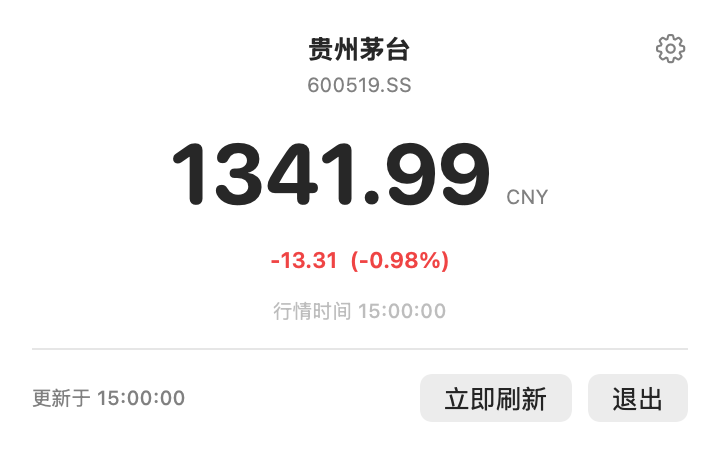
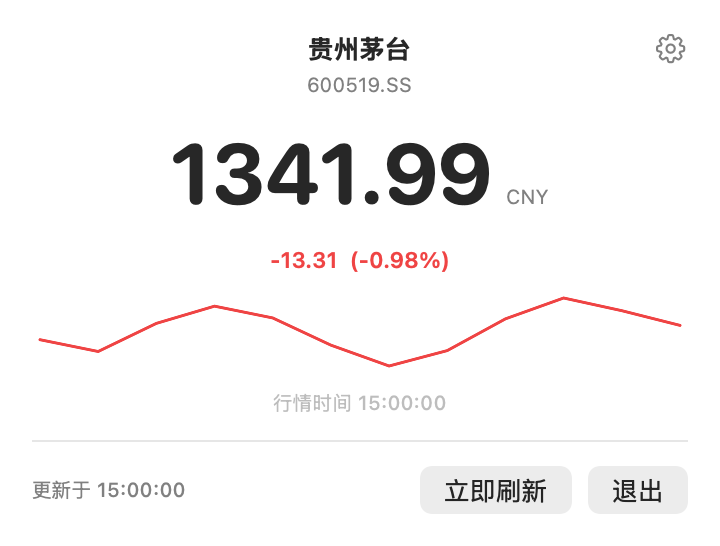
feat: 面板新增本次运行的价格小走势
价格只有一个瞬间值,涨了还是跌了、波动大不大,看不出来。行情接口本身不带分时
数据(免费源只有最新价),所以这里画的是应用自己这段时间看到的采样。

- 新增 PriceTrend.swift:定长采样(maxSamples 120,约 20 分钟)、同一时间点
  覆盖、归一化成 0–1 坐标;点数不足 2 或价格完全不动时返回空,由界面决定不画
- QuoteModel 按代码分桶记录每次成功刷新(轮显的每只都记),只存内存、不落盘
- ContentView 用 Path 画 34pt 高的折线,颜色跟随涨跌,并加无障碍标签
- DocSnapshots 注入固定采样,文档图能体现走势且仍然可重复
- 新增 PriceTrendTests 5 个用例:容量裁剪、同时间点覆盖、归一化坐标、
  退化情况不画、最值

diff --git a/Sources/StockBar/QuoteModel.swift b/Sources/StockBar/QuoteModel.swift
@@ -130,6 +130,9 @@ final class QuoteModel: ObservableObject {
         }
     }
 
+    /// 本次运行期间的价格采样(仅内存,用于面板小走势图)
+    private(set) var trends: [String: PriceTrend] = [:]
+
     /// 价格提醒(按设置顺序持久化)
     @Published private(set) var alerts: [PriceAlert] {
         didSet {
@@ -281,12 +284,19 @@ final class QuoteModel: ObservableObject {
     /// 仅用于 `DocSnapshots` 渲染文档图片,正常运行时不会调用。
     func seedPreview(
         quote previewQuote: Quote, symbol previewSymbol: String, lastUpdated updated: Date?,
-        nextRefreshAt next: Date? = nil
+        nextRefreshAt next: Date? = nil, trend prices: [Double] = []
     ) {
         symbol = previewSymbol
         quote = previewQuote
         lastUpdated = updated
         nextRefreshAt = next
+        if !prices.isEmpty {
+            var seeded = PriceTrend()
+            for (index, price) in prices.enumerated() {
+                seeded.append(PriceSample(at: Date(timeIntervalSince1970: Double(index) * 10), price: price))
+            }
+            trends[previewSymbol] = seeded
+        }
         errorMessage = nil
         consecutiveRefreshFailures = 0
         lastFailureReason = nil
@@ -337,6 +347,18 @@ final class QuoteModel: ObservableObject {
         alerts.removeAll { $0.id == id }
     }
 
+    /// 记录一次采样(按代码分桶)
+    private func recordSample(for fetched: Quote) {
+        var trend = trends[fetched.symbol] ?? PriceTrend()
+        trend.append(PriceSample(at: Date(), price: fetched.price))
+        trends[fetched.symbol] = trend
+    }
+
+    /// 面板小走势图用的采样;当前只没有采样时返回空
+    func trend(for symbol: String) -> PriceTrend {
+        trends[symbol] ?? PriceTrend()
+    }
+
     /// 用当前已知价格评估所有提醒;触发与回落都写日志便于排查
     private func evaluateAlerts() {
         guard !alerts.isEmpty else { return }
@@ -364,7 +386,9 @@ final class QuoteModel: ObservableObject {
             return
         }
         do {
-            quote = try await fetchWithFallback(trimmed)
+            let fetched = try await fetchWithFallback(trimmed)
+            quote = fetched
+            recordSample(for: fetched)
             errorMessage = nil
             lastUpdated = Date()
             consecutiveRefreshFailures = 0
@@ -393,6 +417,9 @@ final class QuoteModel: ObservableObject {
             }
         }
         watchQuotes = cache
+        for (symbol, fetched) in cache where failures[symbol] == nil {
+            recordSample(for: fetched)
+        }
         let shown = displayedSymbol
         if let q = cache[shown] {
             quote = q

diff --git a/Tests/StockBarTests/PriceTrendTests.swift b/Tests/StockBarTests/PriceTrendTests.swift
@@ -1,0 +1,70 @@
+import Foundation
+import Testing
+
+@testable import StockBar
+
+struct PriceTrendTests {
+    private func sample(_ price: Double, minute: Int) -> PriceSample {
+        PriceSample(at: Date(timeIntervalSince1970: Double(minute) * 60), price: price)
+    }
+
+    @Test("采样按顺序累积,超出容量丢弃最旧的")
+    func trimsOldest() {
+        var trend = PriceTrend()
+        #expect(trend.isEmpty)
+        for index in 0..<(PriceTrend.maxSamples + 5) {
+            trend.append(sample(100 + Double(index), minute: index))
+        }
+        #expect(trend.count == PriceTrend.maxSamples)
+        // 最旧的 5 个被丢弃,剩下从第 6 个开始
+        #expect(trend.samples.first?.price == 105)
+        #expect(trend.samples.last?.price == 100 + Double(PriceTrend.maxSamples + 4))
+    }
+
+    @Test("同一时间点的重复采样覆盖而不是追加")
+    func overwritesSameTimestamp() {
+        var trend = PriceTrend()
+        trend.append(sample(100, minute: 0))
+        trend.append(sample(101, minute: 1))
+        trend.append(sample(102, minute: 1))
+        #expect(trend.count == 2)
+        #expect(trend.samples.last?.price == 102)
+    }
+
+    @Test("归一化:x 从头到尾均匀分布,y 为 0 到 1")
+    func normalizedPoints() {
+        var trend = PriceTrend()
+        trend.append(sample(100, minute: 0))
+        trend.append(sample(110, minute: 1))
+        trend.append(sample(105, minute: 2))
+        let points = trend.normalizedPoints()
+        #expect(points.count == 3)
+        #expect(points[0] == CGPoint(x: 0, y: 0))
+        #expect(points[1] == CGPoint(x: 0.5, y: 1))
+        #expect(points[2].x == 1)
+        #expect(abs(points[2].y - 0.5) < 0.0001)
+    }
+
+    @Test("点数不足或价格全相同时不画")
+    func noPointsWhenDegenerate() {
+        var trend = PriceTrend()
+        #expect(trend.normalizedPoints().isEmpty)
+
+        trend.append(sample(100, minute: 0))
+        #expect(trend.normalizedPoints().isEmpty)
+
+        trend.append(sample(100, minute: 1))
+        #expect(trend.normalizedPoints().isEmpty)
+    }
+
+    @Test("最值与个数")
+    func lowestAndHighest() {
+        var trend = PriceTrend()
+        for (index, price) in [120.0, 99.5, 131.2, 100.0].enumerated() {
+            trend.append(sample(price, minute: index))
+        }
+        #expect(trend.lowest == 99.5)
+        #expect(trend.highest == 131.2)
+        #expect(trend.count == 4)
+    }
+}

diff --git a/Sources/StockBar/PriceTrend.swift b/Sources/StockBar/PriceTrend.swift
@@ -1,0 +1,49 @@
+import CoreGraphics
+import Foundation
+
+/// 一次刷新得到的价格采样点
+struct PriceSample: Equatable {
+    let at: Date
+    let price: Double
+}
+
+/// 面板里的小走势(分时采样)。只保留本次运行期间的采样:
+/// 不写磁盘,重启后从空白开始 —— 行情接口本身不提供分时数据,
+/// 这里展示的是「应用看到的最近几次刷新」。
+struct PriceTrend: Equatable {
+    /// 最多保留多少个采样点(按 10 秒刷新算,约 20 分钟)
+    static let maxSamples = 120
+
+    private(set) var samples: [PriceSample] = []
+
+    var isEmpty: Bool { samples.isEmpty }
+    var count: Int { samples.count }
+
+    var lowest: Double? { samples.map(\.price).min() }
+    var highest: Double? { samples.map(\.price).max() }
+
+    /// 追加采样;超过容量丢掉最旧的。同一时间点重复写入时覆盖最后一个。
+    mutating func append(_ sample: PriceSample) {
+        if let last = samples.last, last.at == sample.at {
+            samples[samples.count - 1] = sample
+        } else {
+            samples.append(sample)
+        }
+        if samples.count > Self.maxSamples {
+            samples.removeFirst(samples.count - Self.maxSamples)
+        }
+    }
+
+    /// 归一化成 [0,1] 坐标:x 从头到尾均匀分布,y 向上为正(0 = 最低价,1 = 最高价)。
+    /// 点数少于 2 或价格全相同时返回空数组,由界面决定不画。
+    func normalizedPoints() -> [CGPoint] {
+        guard samples.count >= 2, let low = lowest, let high = highest else { return [] }
+        let span = high - low
+        guard span > 0 else { return [] }
+        return samples.enumerated().map { index, sample in
+            let x = Double(index) / Double(samples.count - 1)
+            let y = (sample.price - low) / span
+            return CGPoint(x: x, y: y)
+        }
+    }
+}

diff --git a/Sources/StockBar/ContentView.swift b/Sources/StockBar/ContentView.swift
@@ -70,6 +70,8 @@ struct ContentView: View {
                 .font(.subheadline.weight(.semibold))
                 .foregroundStyle(model.changeColor(q))
 
+            sparkline(for: q)
+
             if let t = q.marketTime {
                 Text(model.trf("行情时间 %@", t.formatted(date: .omitted, time: .standard)))
                     .font(.caption2)
@@ -122,6 +124,36 @@ struct ContentView: View {
             Text(model.tr("当前休市,暂停自动刷新"))
                 .font(.caption2)
                 .foregroundStyle(.tertiary)
+        }
+    }
+
+    /// 本次运行期间的价格小走势;采样不足两个点时不显示
+    @ViewBuilder
+    private func sparkline(for quote: Quote) -> some View {
+        let points = model.trend(for: quote.symbol).normalizedPoints()
+        if points.count >= 2 {
+            GeometryReader { geo in
+                Path { path in
+                    for (index, point) in points.enumerated() {
+                        let position = CGPoint(
+                            x: point.x * geo.size.width,
+                            y: (1 - point.y) * geo.size.height
+                        )
+                        if index == 0 {
+                            path.move(to: position)
+                        } else {
+                            path.addLine(to: position)
+                        }
+                    }
+                }
+                .stroke(
+                    model.changeColor(quote),
+                    style: StrokeStyle(lineWidth: 1.5, lineCap: .round, lineJoin: .round)
+                )
+            }
+            .frame(height: 34)
+            .padding(.horizontal, 4)
+            .accessibilityLabel(model.tr("最近价格走势"))
         }
     }
 

diff --git a/Sources/StockBar/DocSnapshots.swift b/Sources/StockBar/DocSnapshots.swift
@@ -55,7 +55,11 @@ enum DocSnapshots {
             ),
             symbol: "600519.SS",
             lastUpdated: marketTime,
-            nextRefreshAt: nextRefresh
+            nextRefreshAt: nextRefresh,
+            trend: [
+                1341.20, 1340.55, 1342.10, 1343.05, 1342.40, 1340.90, 1339.75, 1340.60, 1342.35, 1343.50, 1342.80,
+                1341.99,
+            ]
         )
         return model
     }

diff --git a/docs/ROADMAP.md b/docs/ROADMAP.md
@@ -119,7 +119,10 @@
   - 2026-11-08 完成:`PriceAlert.swift`(`AlertDirection` + `PriceAlert` + 纯函数 `AlertEvaluator`),
     `isArmed` 状态机避免「一直高于阈值就每轮重复提醒」;`QuoteModel` 持久化到 UserDefaults(key `priceAlerts`),
     每次刷新后用当前行情(轮显缓存 + 当前只)评估;菜单栏加铃铛、面板列触发行、设置页可增删;新增 7 个用例
-- [ ] **分时迷你走势图**:面板里画最近几个小时的走势(只在交易时段拉取,失败回退为不显示)
+- [x] **分时迷你走势图**:面板里画本次运行的采样走势
+  - 2026-11-09 完成:`PriceTrend.swift`(定长采样 `maxSamples = 120`、同时间点覆盖、归一化为 0–1 坐标),
+    `QuoteModel` 按代码分桶记录成功刷新(轮显也记录),`ContentView` 用 `Path` 画 34pt 高的折线并按涨跌着色;
+    明确只保留内存(行情接口不分时数据,不做磁盘缓存),点数不足 2 或不涨不跌时不画;新增 5 个用例
 - [ ] **发布 v1.1.0**:把双语、轮显、提醒、Cask 打包成一个版本,更新 `Casks/stockbar.rb`
 
 ## 已完成
@@ -139,3 +142,4 @@
 - [x] 2026-11-07 应用内多语言:中英双语 strings + 设置页语言开关(跟随系统/中文/English),错误与状态文案按语言取;新增 key 一致性测试
 - [x] 2026-11-07 README 截图:新增 DocSnapshots 离屏渲染(ImageRenderer)与 scripts/screenshots.sh,生成菜单栏/面板两张图并嵌入中英 README;新增 3 个确定性用例
 - [x] 2026-11-08 价格提醒:新增 PriceAlert/AlertEvaluator(带复位状态机),菜单栏铃铛 + 面板触发行 + 设置页增删,设置页改为可滚动;新增 7 个用例
+- [x] 2026-11-09 分时小走势:新增 PriceTrend(定长采样/归一化),面板画本次运行的折线并按涨跌着色,文档图同步更新;新增 5 个用例

diff --git a/README.en.md b/README.en.md
@@ -28,6 +28,7 @@ Data sources: [Yahoo Finance](https://finance.yahoo.com/) by default, or **EastM
 - **Width-aware menu bar**: long names are truncated from the front so the price always survives
 - **Honest failure states**: a warning icon plus "retry at 21:30:05" instead of a silently frozen number
 - **Price alerts**: a bell in the menu bar when a price crosses your up/down threshold; re-arms after the price returns
+- **Session sparkline**: the panel plots the prices this run has seen (memory only — it rebuilds after a restart, since the quote APIs carry no intraday series)
 
 What it looks like:
 

diff --git a/README.md b/README.md
@@ -28,6 +28,7 @@
 - **宽度自适应**:名称过长时从开头截断,价格与代码始终可见
 - **失败状态可见**:刷新失败时菜单栏出现警告图标,面板给出原因与下次重试时间
 - **价格提醒**:上破 / 下破阈值时菜单栏显示铃铛、面板标出触发原因,价格回到另一侧后自动恢复
+- **分时小走势**:面板按本次运行的刷新采样画一条走势线(仅内存,重启后重新累积;行情接口本身不提供分时数据)
 
 效果示意:
 
